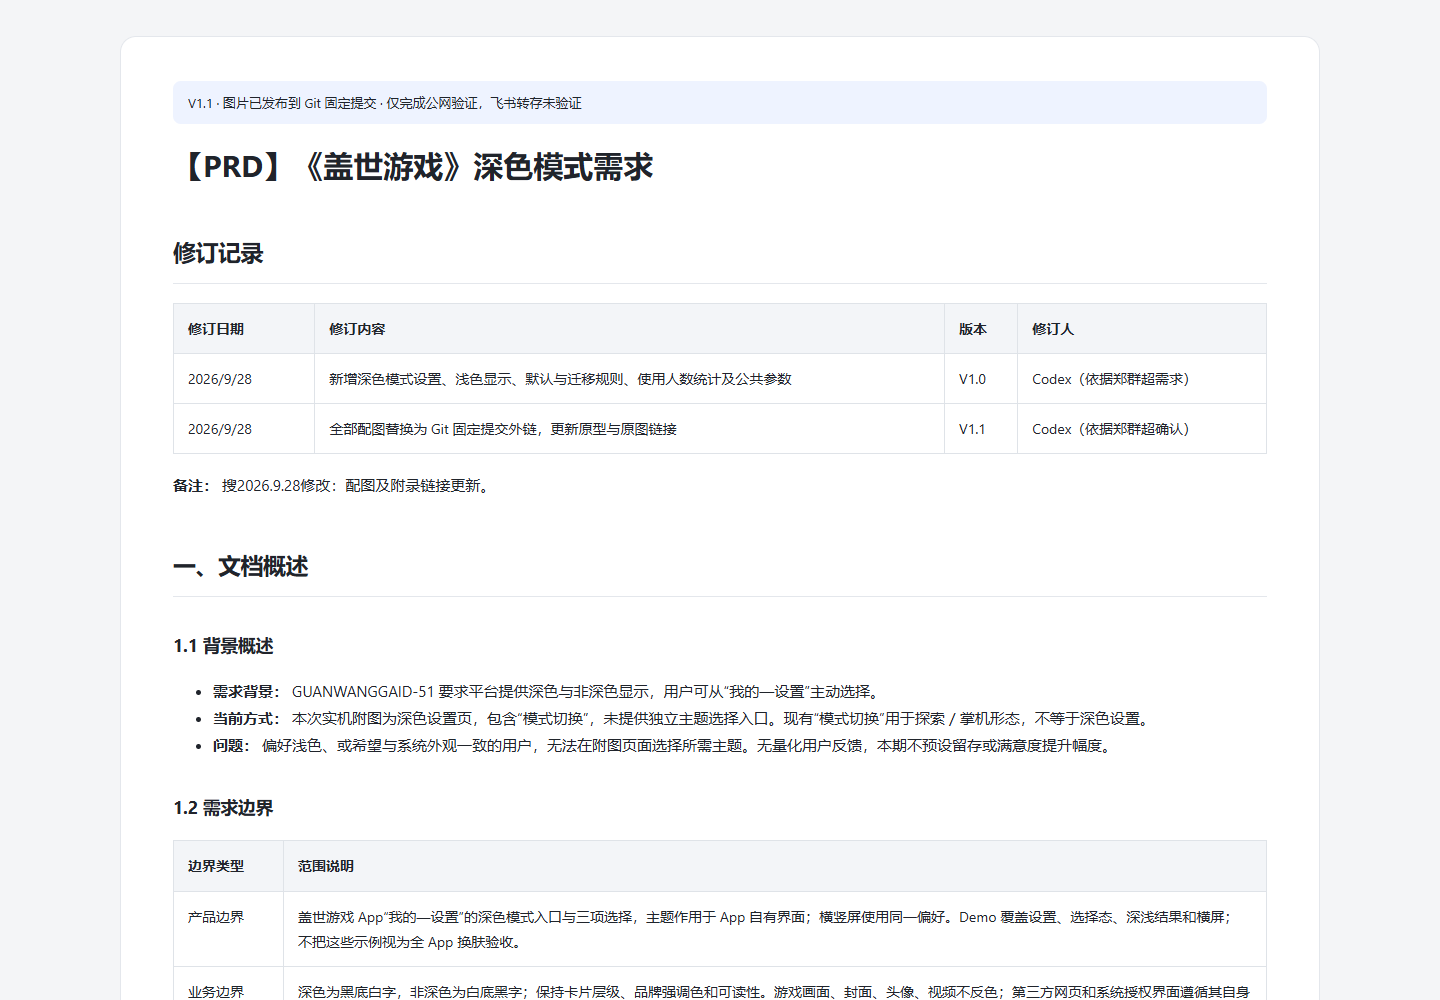
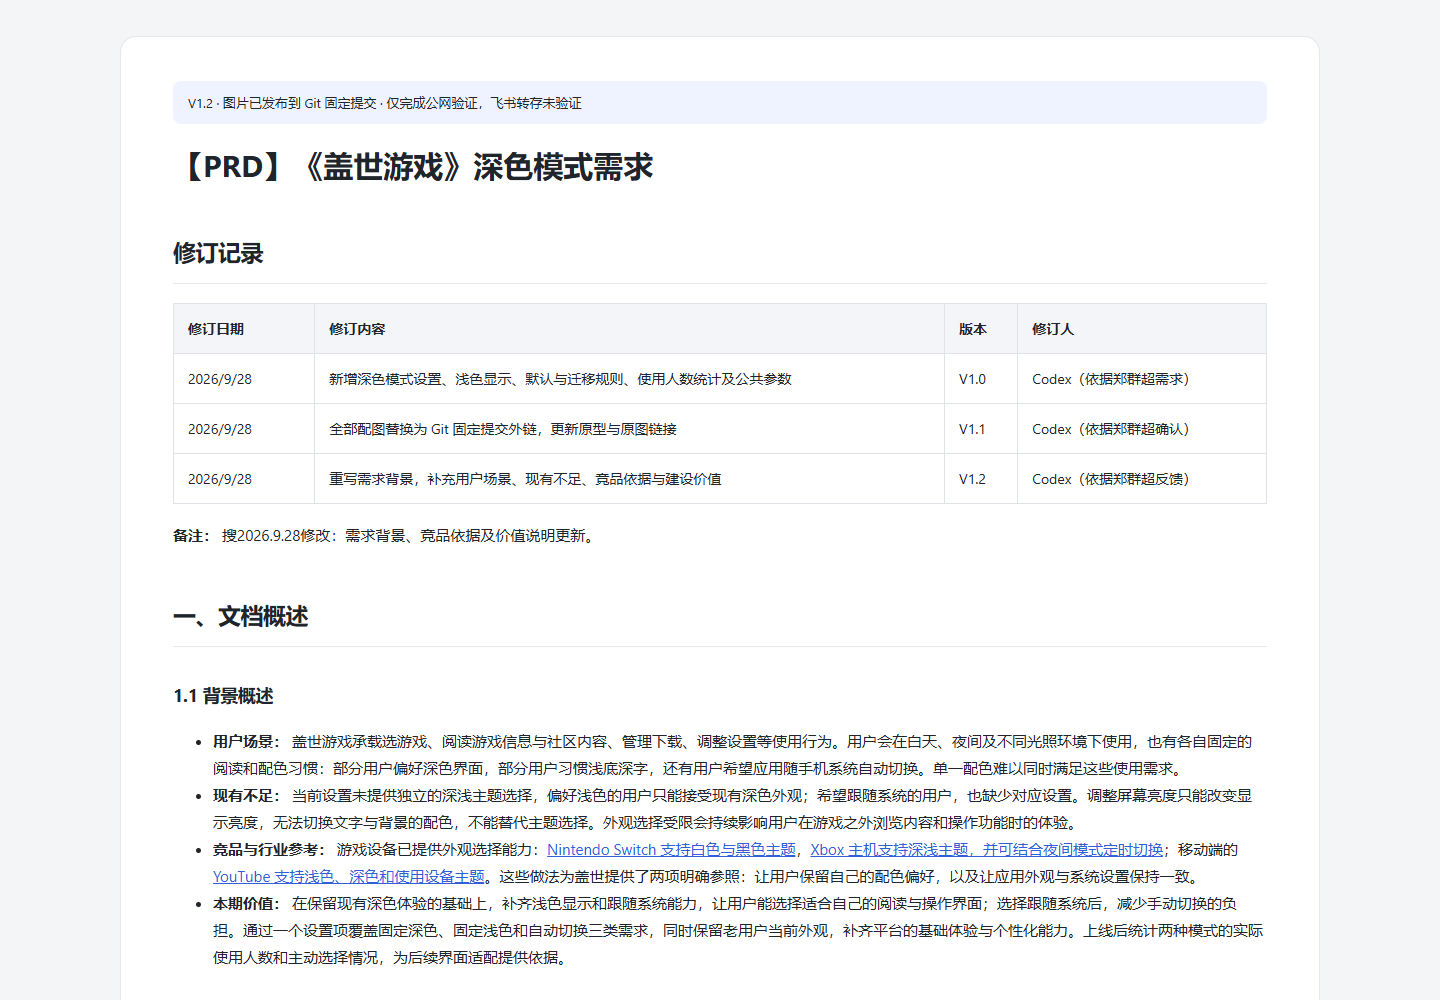
docs(dark-mode): explain user value and verified competitor context

diff --git a/prd/深色模式/深色模式PRD预览.html b/prd/深色模式/深色模式PRD预览.html
@@ -1,6 +1,6 @@
 <!doctype html><html lang="zh-CN"><meta charset="utf-8"><meta name="viewport" content="width=device-width,initial-scale=1"><title>盖世游戏 · 深色模式 PRD</title><style>
 *{box-sizing:border-box}body{margin:0;background:#f4f5f7;color:#20242b;font:15px/1.8 -apple-system,BlinkMacSystemFont,'Segoe UI','Microsoft YaHei',sans-serif}main{max-width:1200px;margin:36px auto;padding:44px 52px;background:#fff;border:1px solid #e4e7ec;border-radius:16px}h1{font-size:30px;line-height:1.4}h2{margin-top:46px;border-bottom:1px solid #e4e7ec;padding-bottom:10px}h3{margin-top:32px}h4{font-size:17px}table{border-collapse:collapse;width:100%;margin:18px 0;font-size:14px}th,td{border:1px solid #dfe3e8;padding:12px 14px;text-align:left;vertical-align:top;overflow-wrap:anywhere}th{background:#f3f5f8;font-weight:600}td:first-child{min-width:110px}a{color:#315fd7}img{max-width:100%;height:auto;border:1px solid #e1e4e8;border-radius:8px}td img{max-height:510px;width:auto;max-width:100%;margin:10px 12px 16px 0;vertical-align:top}td br:has(+img){display:none}strong{font-weight:650}p,li{max-width:100%}em{font-size:13px;color:#697386}.note{padding:10px 15px;background:#eef3ff;border-radius:8px;font-size:13px}@media(max-width:700px){main{margin:0;padding:24px 16px;border-radius:0}table{font-size:12px}td,th{padding:8px}h1{font-size:25px}}@media print{body{background:white}main{border:0;margin:0;padding:0}h2,h3,h4{break-after:avoid}img{max-height:400px}}
-</style><main><div class="note">V1.1 · 图片已发布到 Git 固定提交 · 仅完成公网验证，飞书转存未验证</div><h1>【PRD】《盖世游戏》深色模式需求</h1>
+</style><main><div class="note">V1.2 · 图片已发布到 Git 固定提交 · 仅完成公网验证，飞书转存未验证</div><h1>【PRD】《盖世游戏》深色模式需求</h1>
 <h2>修订记录</h2>
 <table>
 <thead>
@@ -23,14 +23,21 @@
 <td>V1.1</td>
 <td>Codex（依据郑群超确认）</td>
 </tr>
+<tr>
+<td>2026/9/28</td>
+<td>重写需求背景，补充用户场景、现有不足、竞品依据与建设价值</td>
+<td>V1.2</td>
+<td>Codex（依据郑群超反馈）</td>
+</tr>
 </tbody></table>
-<p><strong>备注：</strong> 搜2026.9.28修改：配图及附录链接更新。</p>
+<p><strong>备注：</strong> 搜2026.9.28修改：需求背景、竞品依据及价值说明更新。</p>
 <h2>一、文档概述</h2>
 <h3>1.1 背景概述</h3>
 <ul>
-<li><strong>需求背景：</strong> GUANWANGGAID-51 要求平台提供深色与非深色显示，用户可从“我的—设置”主动选择。</li>
-<li><strong>当前方式：</strong> 本次实机附图为深色设置页，包含“模式切换”，未提供独立主题选择入口。现有“模式切换”用于探索／掌机形态，不等于深色设置。</li>
-<li><strong>问题：</strong> 偏好浅色、或希望与系统外观一致的用户，无法在附图页面选择所需主题。无量化用户反馈，本期不预设留存或满意度提升幅度。</li>
+<li><strong>用户场景：</strong> 盖世游戏承载选游戏、阅读游戏信息与社区内容、管理下载、调整设置等使用行为。用户会在白天、夜间及不同光照环境下使用，也有各自固定的阅读和配色习惯：部分用户偏好深色界面，部分用户习惯浅底深字，还有用户希望应用随手机系统自动切换。单一配色难以同时满足这些使用需求。</li>
+<li><strong>现有不足：</strong> 当前设置未提供独立的深浅主题选择，偏好浅色的用户只能接受现有深色外观；希望跟随系统的用户，也缺少对应设置。调整屏幕亮度只能改变显示亮度，无法切换文字与背景的配色，不能替代主题选择。外观选择受限会持续影响用户在游戏之外浏览内容和操作功能时的体验。</li>
+<li><strong>竞品与行业参考：</strong> 游戏设备已提供外观选择能力：<a href="https://www.nintendo.com/en-gb/Support/Troubleshooting/How-to-Change-the-Theme-on-Nintendo-Switch-1496819.html">Nintendo Switch 支持白色与黑色主题</a>，<a href="https://news.xbox.com/en-us/2021/10/21/october-2021-xbox-update/">Xbox 主机支持深浅主题，并可结合夜间模式定时切换</a>；移动端的 <a href="https://support.google.com/youtube/answer/7385323?co=GENIE.Platform%3DAndroid&hl=zh-Hans">YouTube 支持浅色、深色和使用设备主题</a>。这些做法为盖世提供了两项明确参照：让用户保留自己的配色偏好，以及让应用外观与系统设置保持一致。</li>
+<li><strong>本期价值：</strong> 在保留现有深色体验的基础上，补齐浅色显示和跟随系统能力，让用户能选择适合自己的阅读与操作界面；选择跟随系统后，减少手动切换的负担。通过一个设置项覆盖固定深色、固定浅色和自动切换三类需求，同时保留老用户当前外观，补齐平台的基础体验与个性化能力。上线后统计两种模式的实际使用人数和主动选择情况，为后续界面适配提供依据。</li>
 </ul>
 <h3>1.2 需求边界</h3>
 <table>
@@ -98,10 +105,6 @@
 <tr>
 <td>默认策略</td>
 <td>[已确认] 新用户默认跟随系统；老用户保留升级前外观，当前深色则迁移为开启。已有明确主题偏好优先保留。</td>
-</tr>
-<tr>
-<td>外部参考</td>
-<td>YouTube 的外观设置提供设备主题和深浅选择，可借鉴“自动与手动并存”的心智；盖世沿用自己的入口和术语。Android 官方提供跟随系统、固定深色与固定浅色能力。参考仅证明交互与平台可行性，不作为盖世现状证据。</td>
 </tr>
 </tbody></table>
 <h3>2.2 产品流程</h3>
@@ -412,6 +415,16 @@
 <td>原页面图</td>
 <td><a href="https://cdn.jsdelivr.net/gh/z36358631-ship-it/-@cd3009e26d9407bffe517de45134b83e127e7832/public/prd/dark-mode/settings-original.png">https://cdn.jsdelivr.net/gh/z36358631-ship-it/-@cd3009e26d9407bffe517de45134b83e127e7832/public/prd/dark-mode/settings-original.png</a></td>
 <td>本次设置骨架最高优先级来源。</td>
+</tr>
+<tr>
+<td>Nintendo Switch 主题说明</td>
+<td><a href="https://www.nintendo.com/en-gb/Support/Troubleshooting/How-to-Change-the-Theme-on-Nintendo-Switch-1496819.html">https://www.nintendo.com/en-gb/Support/Troubleshooting/How-to-Change-the-Theme-on-Nintendo-Switch-1496819.html</a></td>
+<td>游戏设备端白色／黑色主题参考，2026/9/28 查阅。</td>
+</tr>
+<tr>
+<td>Xbox 夜间模式说明</td>
+<td><a href="https://news.xbox.com/en-us/2021/10/21/october-2021-xbox-update/">https://news.xbox.com/en-us/2021/10/21/october-2021-xbox-update/</a></td>
+<td>主机端深浅主题与定时切换参考，2026/9/28 查阅；本期不引入定时功能。</td>
 </tr>
 <tr>
 <td>YouTube 外观帮助</td>

diff --git a/prd/深色模式/【PRD】盖世游戏深色模式.md b/prd/深色模式/【PRD】盖世游戏深色模式.md
@@ -6,16 +6,18 @@
 |---|---|---|---|
 | 2026/9/28 | 新增深色模式设置、浅色显示、默认与迁移规则、使用人数统计及公共参数 | V1.0 | Codex（依据郑群超需求） |
 | 2026/9/28 | 全部配图替换为 Git 固定提交外链，更新原型与原图链接 | V1.1 | Codex（依据郑群超确认） |
+| 2026/9/28 | 重写需求背景，补充用户场景、现有不足、竞品依据与建设价值 | V1.2 | Codex（依据郑群超反馈） |
 
-**备注：** 搜2026.9.28修改：配图及附录链接更新。
+**备注：** 搜2026.9.28修改：需求背景、竞品依据及价值说明更新。
 
 ## 一、文档概述
 
 ### 1.1 背景概述
 
-- **需求背景：** GUANWANGGAID-51 要求平台提供深色与非深色显示，用户可从“我的—设置”主动选择。
-- **当前方式：** 本次实机附图为深色设置页，包含“模式切换”，未提供独立主题选择入口。现有“模式切换”用于探索／掌机形态，不等于深色设置。
-- **问题：** 偏好浅色、或希望与系统外观一致的用户，无法在附图页面选择所需主题。无量化用户反馈，本期不预设留存或满意度提升幅度。
+- **用户场景：** 盖世游戏承载选游戏、阅读游戏信息与社区内容、管理下载、调整设置等使用行为。用户会在白天、夜间及不同光照环境下使用，也有各自固定的阅读和配色习惯：部分用户偏好深色界面，部分用户习惯浅底深字，还有用户希望应用随手机系统自动切换。单一配色难以同时满足这些使用需求。
+- **现有不足：** 当前设置未提供独立的深浅主题选择，偏好浅色的用户只能接受现有深色外观；希望跟随系统的用户，也缺少对应设置。调整屏幕亮度只能改变显示亮度，无法切换文字与背景的配色，不能替代主题选择。外观选择受限会持续影响用户在游戏之外浏览内容和操作功能时的体验。
+- **竞品与行业参考：** 游戏设备已提供外观选择能力：[Nintendo Switch 支持白色与黑色主题](https://www.nintendo.com/en-gb/Support/Troubleshooting/How-to-Change-the-Theme-on-Nintendo-Switch-1496819.html)，[Xbox 主机支持深浅主题，并可结合夜间模式定时切换](https://news.xbox.com/en-us/2021/10/21/october-2021-xbox-update/)；移动端的 [YouTube 支持浅色、深色和使用设备主题](https://support.google.com/youtube/answer/7385323?co=GENIE.Platform%3DAndroid&hl=zh-Hans)。这些做法为盖世提供了两项明确参照：让用户保留自己的配色偏好，以及让应用外观与系统设置保持一致。
+- **本期价值：** 在保留现有深色体验的基础上，补齐浅色显示和跟随系统能力，让用户能选择适合自己的阅读与操作界面；选择跟随系统后，减少手动切换的负担。通过一个设置项覆盖固定深色、固定浅色和自动切换三类需求，同时保留老用户当前外观，补齐平台的基础体验与个性化能力。上线后统计两种模式的实际使用人数和主动选择情况，为后续界面适配提供依据。
 
 ### 1.2 需求边界
 
@@ -43,7 +45,6 @@
 | 目标用户 | 需要浅色显示、固定深色显示或随系统自动切换外观的 App 用户，包括游客。 |
 | 方案 | 在现有设置列表“模式切换”下新增“深色模式”，沿用设置选择交互，提供“跟随系统、开启、关闭”；选择立即应用并保存本设备偏好。 |
 | 默认策略 | [已确认] 新用户默认跟随系统；老用户保留升级前外观，当前深色则迁移为开启。已有明确主题偏好优先保留。 |
-| 外部参考 | YouTube 的外观设置提供设备主题和深浅选择，可借鉴“自动与手动并存”的心智；盖世沿用自己的入口和术语。Android 官方提供跟随系统、固定深色与固定浅色能力。参考仅证明交互与平台可行性，不作为盖世现状证据。 |
 
 ### 2.2 产品流程
 
@@ -152,6 +153,8 @@
 |---|---|---|
 | 原始任务 | GUANWANGGAID-51 | 正文与实机附图；2026/9/28 本会话已确认新老用户默认策略。 |
 | 原页面图 | https://cdn.jsdelivr.net/gh/z36358631-ship-it/-@cd3009e26d9407bffe517de45134b83e127e7832/public/prd/dark-mode/settings-original.png | 本次设置骨架最高优先级来源。 |
+| Nintendo Switch 主题说明 | https://www.nintendo.com/en-gb/Support/Troubleshooting/How-to-Change-the-Theme-on-Nintendo-Switch-1496819.html | 游戏设备端白色／黑色主题参考，2026/9/28 查阅。 |
+| Xbox 夜间模式说明 | https://news.xbox.com/en-us/2021/10/21/october-2021-xbox-update/ | 主机端深浅主题与定时切换参考，2026/9/28 查阅；本期不引入定时功能。 |
 | YouTube 外观帮助 | https://support.google.com/youtube/answer/7385323 | 设备主题与深浅选择参考，2026/9/28 查阅。 |
 | Android 主题说明 | https://developer.android.google.cn/develop/ui/views/theming/darktheme | 系统跟随与手动主题能力参考，2026/9/28 查阅。 |
 
